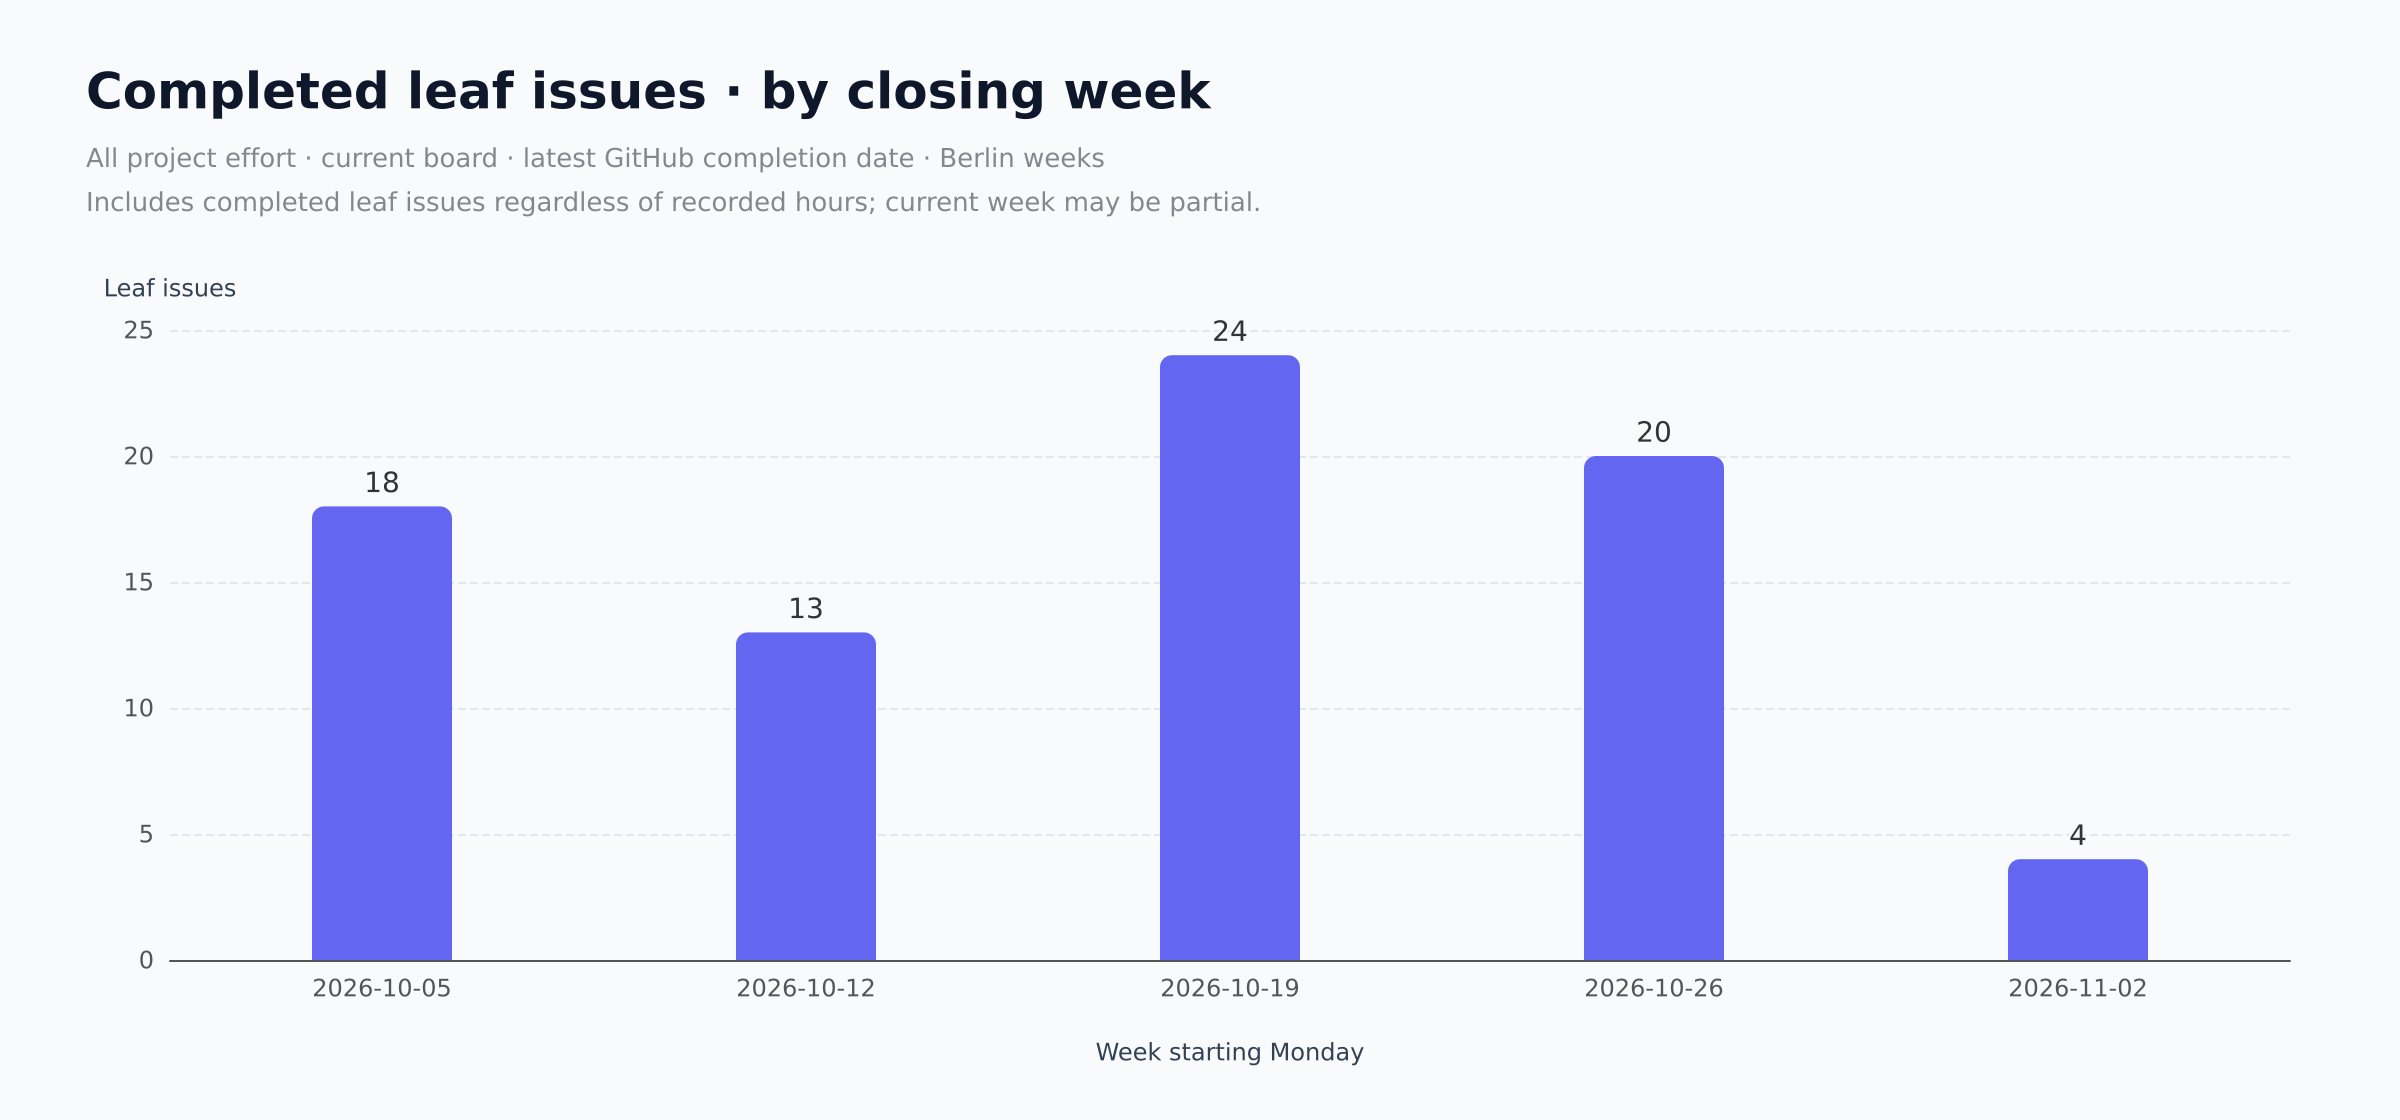
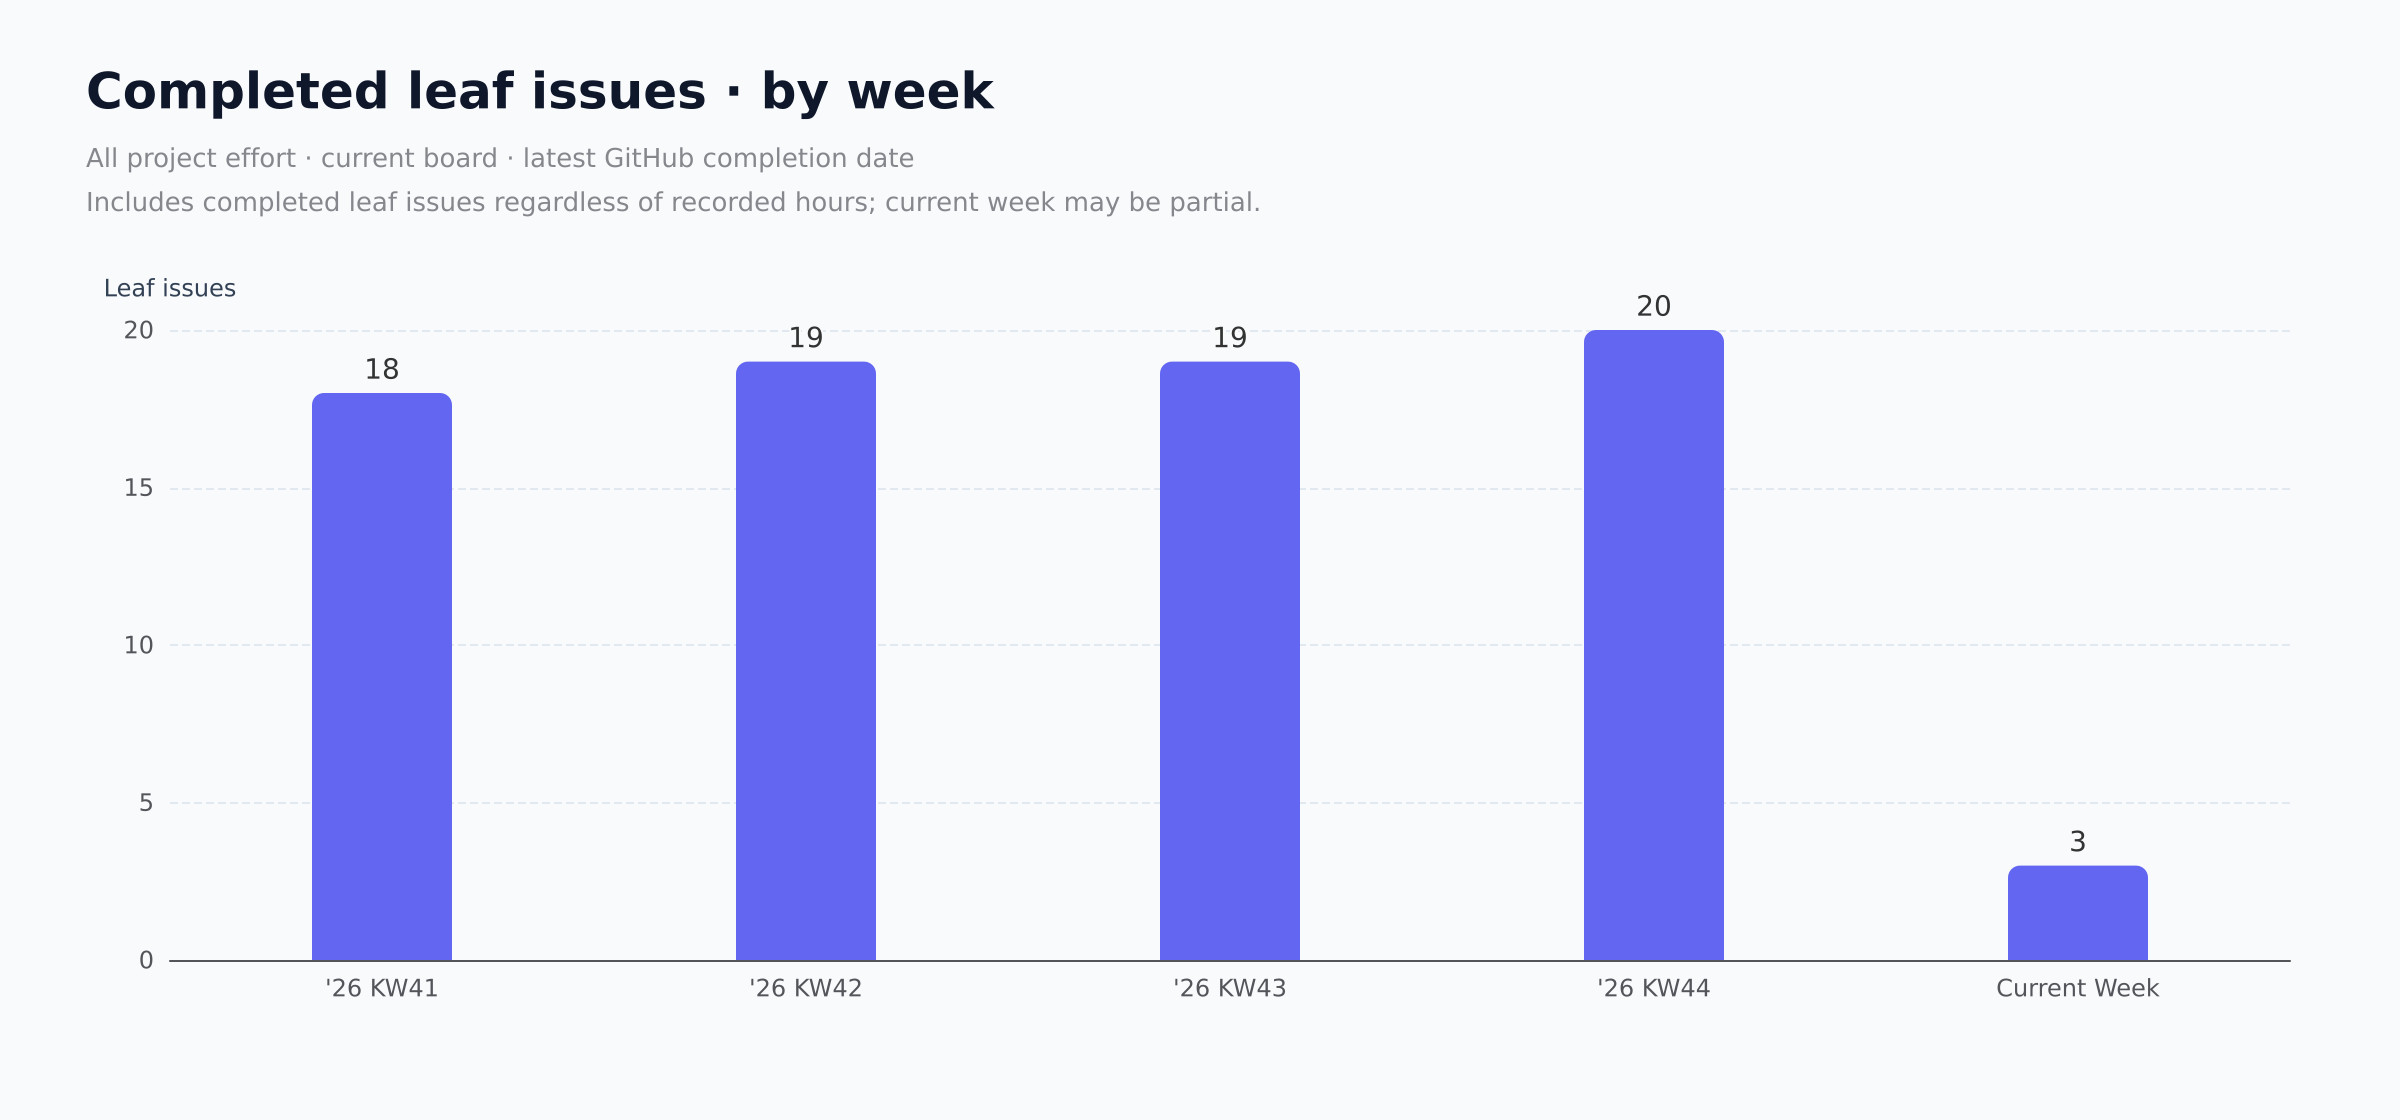
reports: refresh project effort charts

diff --git a/reports/idle-arcade-1/latest/analysis.md b/reports/idle-arcade-1/latest/analysis.md
@@ -73,11 +73,11 @@ Source: [IDLE Arcade](https://github.com/orgs/idle-arcade/projects/1). Snapshot 
 
 Each stage represents the same recorded hours. Links aggregate adjacent categories.
 
-## Completed leaf issues by closing week
+## Completed leaf issues by week
 
 ![Completed leaf issues](charts/completed-by-week.svg)
 
-Counts currently completed leaf issues on the current board by their latest GitHub closing date, including issues without recorded hours. Not-planned closures and parents are excluded. Each issue counts once; reopened issues are absent until completed again, then move to their latest closing week. This is a current-cohort completion distribution, not a reconstruction of historical board scope. Weeks start Monday in Europe/Berlin; the current week may be partial.
+Counts currently completed leaf issues on the current board by their latest GitHub closing date, including issues without recorded hours. Not-planned closures and parents are excluded. Each issue counts once; reopened issues are absent until completed again, then move to their latest closing week. This is a current-cohort completion distribution, not a reconstruction of historical board scope. Weeks run Tuesday–Monday in Europe/Berlin and use the ISO calendar-week number of their starting Tuesday; the current week may be partial.
 
 ## Native burn-up
 
